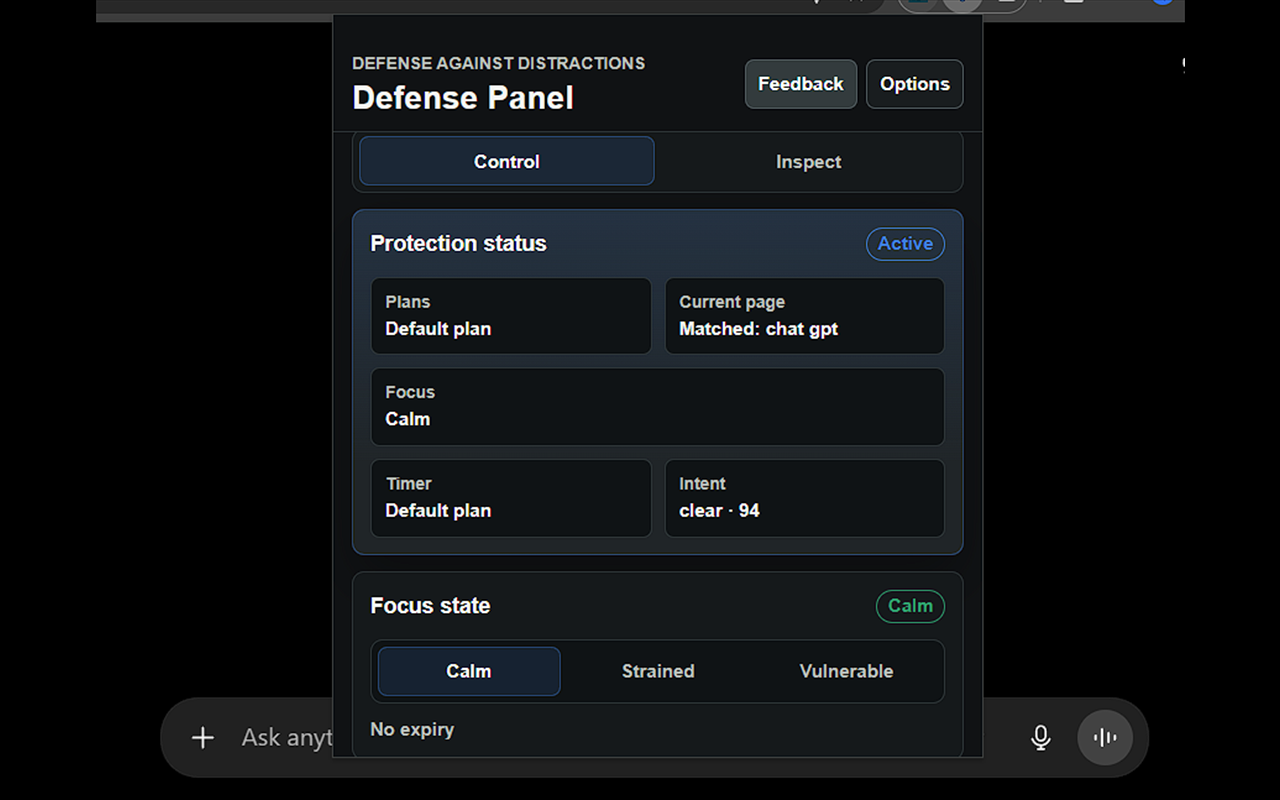
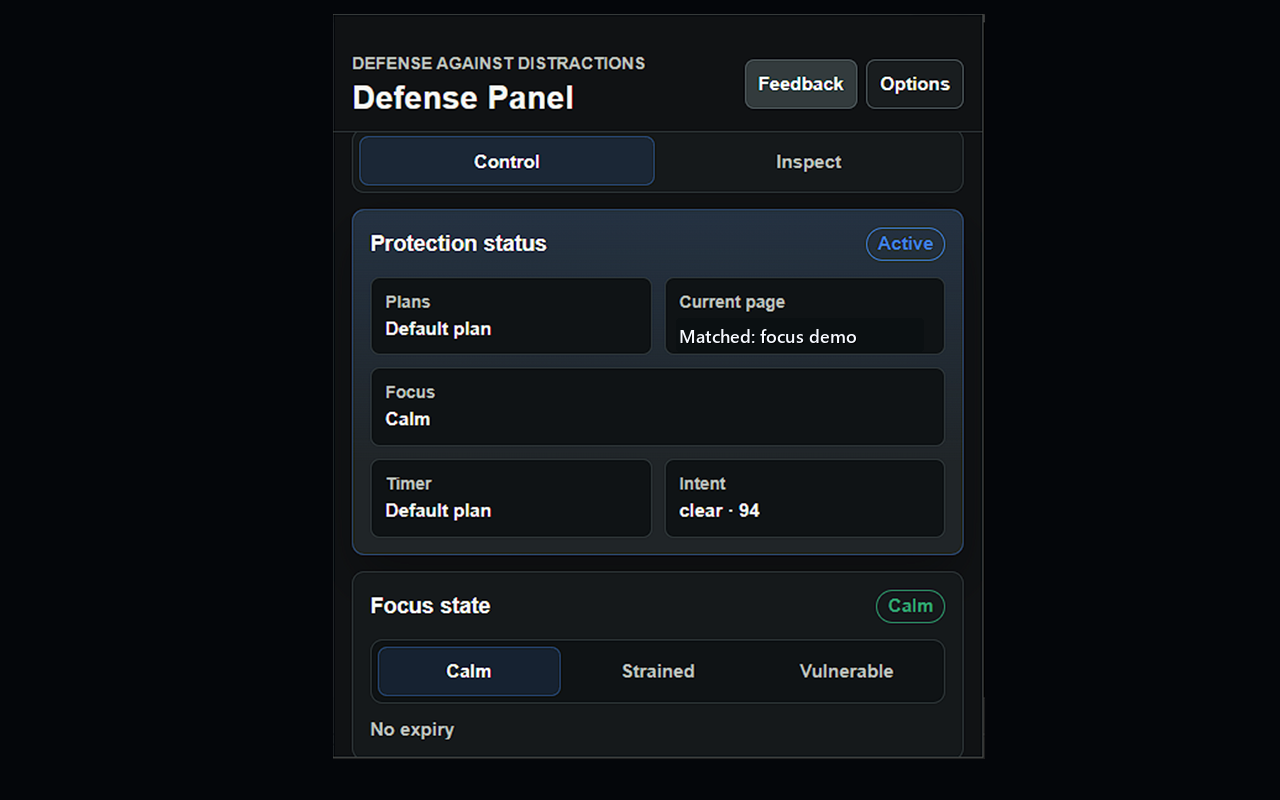
Sanitize store screenshots

Changed region(s): [[0.125, 0.875, 0.9062, 1.0], [0.0625, 0.0, 0.9375, 0.0312], [0.5312, 0.4062, 0.6562, 0.4375]]

diff --git a/docs/store-media-review.md b/docs/store-media-review.md
@@ -1,0 +1,25 @@
+# Store Media Review
+
+This document records the Chrome Web Store media review for the current release assets.
+
+Review date: 2026-06-21.
+
+Store screenshots and promo images must not expose personal accounts, private conversations, real rules, real domains, or other user-specific configuration. Demo browsing context should use reserved example hosts such as `example.test` instead of live sites.
+
+## Current Assets
+
+| Asset | Size | Purpose | Review note |
+| --- | --- | --- | --- |
+| `store/screenshots/01-popup-protection-status.png` | 1280x800 | Popup protection status | Uses a neutral background and a demo match label. No personal accounts, private conversations, real rules, real domains, or user-specific configuration are visible. |
+| `store/screenshots/02-plan-pomodoro-controls.png` | 1280x800 | Plan-owned Pomodoro controls | Shows extension-owned controls and demo/default settings only. No personal accounts, private conversations, real domains, or user-specific configuration are visible. |
+| `store/screenshots/03-intent-drift-recovery.png` | 1280x800 | Intent drift recovery prompt | Uses fake search content and reserved demo hosts under `example.test`, including `docs.example.test`, `workspace.example.test`, `research.example.test`, `media.example.test`, and `notes.example.test`. |
+| `store/screenshots/04-blocked-page.png` | 1280x800 | Blocked page surface | Uses a demo keyword and demo context string. No live host, account, private conversation, or real rule is visible. |
+| `store/screenshots/05-ui-element-picker.png` | 1280x800 | UI element picker | Uses a neutral demo translation page under `example.test` and extension-owned picker UI. No live service content, personal account, private conversation, real domain, or user-specific rule is visible. |
+| `store/promo/small-promo-440x280.png` | 440x280 | Small promotional tile | Uses extension branding and product positioning only. It does not show accounts, conversations, rules, domains, or user-specific configuration. |
+| `store/promo/marquee-promo-1400x560.png` | 1400x560 | Marquee promotional image | Uses extension branding and product positioning only. It does not show accounts, conversations, rules, domains, or user-specific configuration. |
+
+## Release Rule
+
+If any screenshot or promotional image is replaced, repeat this review before release. The replacement must keep the same privacy boundary: no personal accounts, no private conversations, no real rules, no real domains, and no user-specific configuration.
+
+Run `npm run verify:playbook`, `npm run package`, and `npm run verify:release` after changing these assets.

diff --git a/README.md b/README.md
@@ -87,7 +87,7 @@ Release-facing assets use the shared browser-extension playbook shape:
 - `store/screenshots/` contains Chrome Web Store screenshots.
 - `store/store-listing/` contains plain text Chrome Web Store listing copy.
 
-Architecture and release notes live in `docs/`. The current future-facing product model is documented in [Protection Model](docs/protection-model.md), the planned user-facing plan structure is documented in [Plans Architecture](docs/plans-architecture.md), durable project choices are indexed in [Decision Records](docs/decision-records.md), manifest permissions are mapped in [Permission Audit](docs/permission-audit.md), reviewer-facing browser limitations are documented in [Reviewer Notes](docs/reviewer-notes.md), current release notes are documented in [Release Notes](docs/release-notes.md), and release gates are documented in [Release Readiness](docs/release-readiness.md).
+Architecture and release notes live in `docs/`. The current future-facing product model is documented in [Protection Model](docs/protection-model.md), the planned user-facing plan structure is documented in [Plans Architecture](docs/plans-architecture.md), durable project choices are indexed in [Decision Records](docs/decision-records.md), manifest permissions are mapped in [Permission Audit](docs/permission-audit.md), reviewer-facing browser limitations are documented in [Reviewer Notes](docs/reviewer-notes.md), store screenshots and promo assets are reviewed in [Store Media Review](docs/store-media-review.md), current release notes are documented in [Release Notes](docs/release-notes.md), and release gates are documented in [Release Readiness](docs/release-readiness.md).
 
 ## Privacy
 

diff --git a/docs/release-readiness.md b/docs/release-readiness.md
@@ -22,6 +22,8 @@ Reviewer-facing browser limitations are documented in [Reviewer Notes](reviewer-
 
 Manifest permission rationale and broad host-access boundaries are documented in [Permission Audit](permission-audit.md). Recheck that file before publishing if any permission, content-script match, or web-accessible resource match changes.
 
+Store screenshots and promotional assets are documented in [Store Media Review](store-media-review.md). Recheck that file before publishing if any screenshot or promo image changes.
+
 The package verifier checks:
 
 - The generated runtime output has a valid MV3 manifest.
@@ -43,6 +45,7 @@ The release verifier checks:
 - The extension archive excludes docs, tests, scripts, screenshots, promo images, store listing text, and source-only icon files.
 - The `dist/` folder contains only current manifest-version package zips, with no stale zips or staging directories.
 - The source archive contains docs, tests, scripts, source files, store assets, README, license, about file, and changelog.
+- The source archive contains the store media review for screenshots and promotional images.
 - The source archive contains StorePilot privacy, category, and additional-field automation documents.
 - The changelog in the source archive matches the root `CHANGELOG.md`.
 - The store listing remains plain text instead of Markdown.

diff --git a/docs/decision-records.md b/docs/decision-records.md
@@ -38,9 +38,9 @@ Consequence: large follow-up work should move toward feature ownership maps and 
 
 Status: accepted.
 
-Decision: Chrome Web Store fields, privacy answers, category selection, listing text, screenshots, promo images, packaging, and release verification are maintained in the repository as source artifacts.
+Decision: Chrome Web Store fields, privacy answers, category selection, listing text, screenshots, promo images, media review, packaging, and release verification are maintained in the repository as source artifacts.
 
-Evidence: [Release Readiness](release-readiness.md), [Chrome Web Store Privacy Form](chrome-web-store-privacy-form.md), [Chrome Web Store Additional Fields](chrome-web-store-additional-fields.md), [Chrome Web Store Category](chrome-web-store-category.md).
+Evidence: [Release Readiness](release-readiness.md), [Store Media Review](store-media-review.md), [Chrome Web Store Privacy Form](chrome-web-store-privacy-form.md), [Chrome Web Store Additional Fields](chrome-web-store-additional-fields.md), [Chrome Web Store Category](chrome-web-store-category.md).
 
 Consequence: release claims must be updated in docs and automated checks together, not only in the browser dashboard.
 

diff --git a/docs/release-notes.md b/docs/release-notes.md
@@ -7,7 +7,7 @@ This document is the release-facing index for the current Chrome Web Store packa
 Release focus:
 
 - Current plan-based protection model: plans, schedules, allowed websites, keywords, locked-schedule rules, Pomodoro, intent coherence, and optional UI cleanup.
-- Store-ready media: five 1280x800 screenshots, a 440x280 small promo, and a 1400x560 marquee promo verified by the package checks.
+- Store-ready media: five 1280x800 screenshots, a 440x280 small promo, and a 1400x560 marquee promo verified by the package checks and documented in [Store Media Review](store-media-review.md).
 - StorePilot preparation: localized listing text, privacy form answers, category selection, additional fields, and permission justifications for the current manifest.
 - Privacy and package posture: local-first behavior, no analytics, no remote executable code, and no unexpected remote network access in the runtime package.
 - Release automation: manifest, import, locale, playbook, package, source archive, browser-load, file-size, and folder-density checks are part of the release gate.

diff --git a/CHANGELOG.md b/CHANGELOG.md
@@ -7,6 +7,7 @@ Version 1.6.1:
 - updated manifest and English store copy around the current plan-based protection model, including schedules, Pomodoro, intent coherence, and optional UI cleanup
 - added StorePilot-compatible privacy justifications for idle and webNavigation permissions
 - added a manifest permission audit that maps each permission and host-access surface to its feature owner and removal trigger
+- sanitized Chrome Web Store screenshots and added a checked store media review artifact
 - synchronized localized store listing version references with the current package version
 - aligned README blocking copy with the current overlay-first page blocking behavior
 - added package verification for screenshot and promotional image dimensions, runtime archive contents, and unexpected remote network access

diff --git a/docs/release-checklist.md b/docs/release-checklist.md
@@ -105,6 +105,7 @@ Use this checklist before publishing a new extension release.
 - Use screenshots from `store/screenshots/`.
 - Confirm screenshots do not expose personal accounts, private conversations, real rules, real domains, or other user-specific configuration.
 - Use promotional images from `store/promo/`.
+- Review `docs/store-media-review.md` after changing any screenshot or promotional image.
 - Use extension icons from `assets/icons/`.
 
 ## Publish
